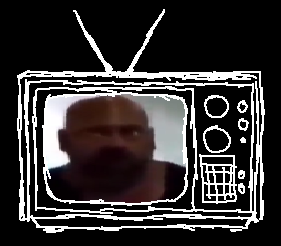
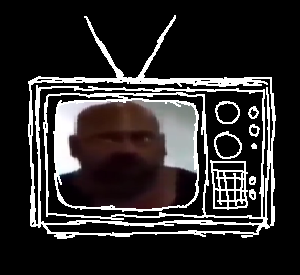
pre-opening update
yessir

Changed region(s): [[0.0569, 0.0285, 0.9395, 0.9675]]

diff --git a/index.html b/index.html
@@ -6,7 +6,7 @@
 	<title>Grave's Yard</title>
 
 	<link rel="icon" type="image/png" href="images/troubledman.png">
-	<link rel="stylesheet" href="styles.css">
+	<link rel="stylesheet" href="index.css">
 </head>
 <body>
 	<div class="container">
@@ -24,26 +24,33 @@
 			<a href="blog_zone/blogzone.html"><img src="images/blog_icon.png" draggable="false"> </a>
 		</div>
 		<div class="news">
-			<h3 style="text-align: center">News</h3>
+			<p style="text-align: center"><img src="misc_zone/misc_images_misc/wip.png" draggable="false"></p>
 
-			<hr style="width: 50%">
+			<hr style="width: 600px">
 
-			<h5 id="news">
-				index
+			<h5 style="text-align: center;">
+				Welcome to the site.
+				<br><br>I'm Grave Robert, an """artist""" and """""musician""""". I like to play games, listen to music, generally normal human things.
+				<br><br>This site will contain most, if not all of my creations and other stuff I've made, as for now you can view the blog, art and <del>games</del>.
+				<br><br>I hope that someday this site will be a frequently visted page by some of you!
 			</h5>
+			
+			<h6 style="text-align: center; color: #111111;" >
+				btw this box is supposed to be an announcement/news tab not an about page, yknow
+			</h6>
 
 		</div>
 		<br>
-		<footer style="height: 50px; background-color: white; text-align: center">
-		<sub>sygun</sub>&<sup>nygus</sup> &copy; 2022
-		</footer>
+		<div class="footer">
+			<p>WEBSITE BY GRAVE ROBERT</p>
+		</div>
 	</div>
 
 <script>
 	var randomNumber = 1;
 
     min = Math.ceil(1);
-    max = Math.floor(5);
+    max = Math.floor(12);
     var randomNumber = Math.floor(Math.random() * (max - min + 1)) + min;
     console.log(randomNumber);
 
@@ -62,7 +69,28 @@
 			document.getElementById("tv").src = "images/oldtv_4.png";
 		break;
 		case 5:
-			document.getElementById("tv").src = "images/oldtv_5.png"
+			document.getElementById("tv").src = "images/oldtv_5.png";
+		break;
+		case 6:
+			document.getElementById("tv").src = "images/oldtv_6.png";
+		break;
+		case 7:
+			document.getElementById("tv").src = "images/oldtv_7.png";
+		break;
+		case 8:
+			document.getElementById("tv").src = "images/oldtv_8.png";
+		break;
+		case 9:
+			document.getElementById("tv").src = "images/oldtv_9.png";
+		break;
+		case 10:
+			document.getElementById("tv").src = "images/oldtv_10.png";
+		break;
+		case 11:
+			document.getElementById("tv").src = "images/oldtv_11.png";
+		break;
+		case 12:
+			document.getElementById("tv").src = "images/oldtv_12.png";
 		break;
 	}
 	}

diff --git a/index.css b/index.css
@@ -1,0 +1,46 @@
+body {
+    font-family: 'Courier New', Courier, monospace;
+    display: flex;
+    justify-content: center;
+    margin: 0px;
+    background-color: black;
+}
+
+.container {
+    width: 75%;
+}
+
+.headerContainer {
+    display: flex;
+    justify-content: center;
+}
+
+.middle {
+    display: flex;
+    justify-content: center;
+    align-items: center;
+}
+
+.blog {
+    display: flex;
+    justify-content: center;
+}
+
+.news {
+    height: 40%;
+    width: 650px;
+    margin: auto;
+    padding-left: 2px;
+    border: 1px solid white;
+    color: white;
+}
+
+.footer {
+    height: 50px;
+    width: 650px;
+    margin: auto;
+    background-color: white;
+    text-align: center;
+    font-size: 14px;
+    padding: 2px;
+}

diff --git a/blog_zone/blogzone_styles.css b/blog_zone/blogzone_styles.css
@@ -1,0 +1,44 @@
+body {
+    font-family: 'Courier New', Courier, monospace;
+    display: flex;
+    justify-content: center;
+    margin: 0px;
+    background-color: black;
+}
+
+.container {
+    width: 75%;
+}
+
+.headerContainer {
+    display: flex;
+    justify-content: center;
+}
+
+.middle {
+    display: flex;
+    justify-content: center;
+    align-items: center;
+}
+
+.middle img {
+    cursor: pointer;
+}
+
+.blog {
+    display: flex;
+    justify-content: center;
+}
+
+.blog img {
+    cursor: pointer;
+}
+
+.news {
+    height: 40%;
+    width: 100%;
+    padding-left: 9px;
+    overflow-y: auto;
+    border: 1px solid white;
+    color: white;
+}

diff --git a/game_zone/gamezone_styles.css b/game_zone/gamezone_styles.css
@@ -1,0 +1,44 @@
+body {
+    font-family: 'Courier New', Courier, monospace;
+    display: flex;
+    justify-content: center;
+    margin: 0px;
+    background-color: black;
+}
+
+.container {
+    width: 75%;
+}
+
+.headerContainer {
+    display: flex;
+    justify-content: center;
+}
+
+.middle {
+    display: flex;
+    justify-content: center;
+    align-items: center;
+}
+
+.middle img {
+    cursor: pointer;
+}
+
+.blog {
+    display: flex;
+    justify-content: center;
+}
+
+.blog img {
+    cursor: pointer;
+}
+
+.news {
+    height: 40%;
+    width: 100%;
+    padding-left: 9px;
+    overflow-y: auto;
+    border: 1px solid white;
+    color: white;
+}

diff --git a/game_zone/gamezone.html b/game_zone/gamezone.html
@@ -1,9 +1,14 @@
 <!DOCTYPE html>
 <html>
-<head>
-	<title>games</title>
-</head>
-<body bgcolor="#0018A0">
-	<p>games</p>
+	<head>
+		<meta name="viewport" content="width=device-width, initial-scale=1.0">
+	
+		<title>Grave's Yard</title>
+	
+		<link rel="icon" type="image/png" href="images/troubledman.png">
+		<link rel="stylesheet" href="gamezone_styles.css">
+	</head>
+<body>
+
 </body>
 </html>

diff --git a/blog_zone/blogzone.html b/blog_zone/blogzone.html
@@ -1,9 +1,14 @@
 <!DOCTYPE html>
 <html>
-<head>
-	<title>blog</title>
-</head>
-<body bgcolor="#0018A0">
-	<p>blog</p>
+	<head>
+		<meta name="viewport" content="width=device-width, initial-scale=1.0">
+	
+		<title>Grave's Yard</title>
+	
+		<link rel="icon" type="image/png" href="images/troubledman.png">
+		<link rel="stylesheet" href="blogzone_styles.css">
+	</head>
+<body>
+
 </body>
 </html>

diff --git a/art_zone/artzone.html b/art_zone/artzone.html
@@ -1,9 +1,13 @@
 <!DOCTYPE html>
 <html>
-<head>
-	<title>art</title>
-</head>
-<body bgcolor="#0018A0">
-	<p>art</p>
+	<head>
+		<meta name="viewport" content="width=device-width, initial-scale=1.0">
+	
+		<title>Grave's Yard</title>
+	
+		<link rel="icon" type="image/png" href="../images/troubledman.png">
+		<link rel="stylesheet" href="artzone_styles.css">
+	</head>
+<body>
 </body>
 </html>
